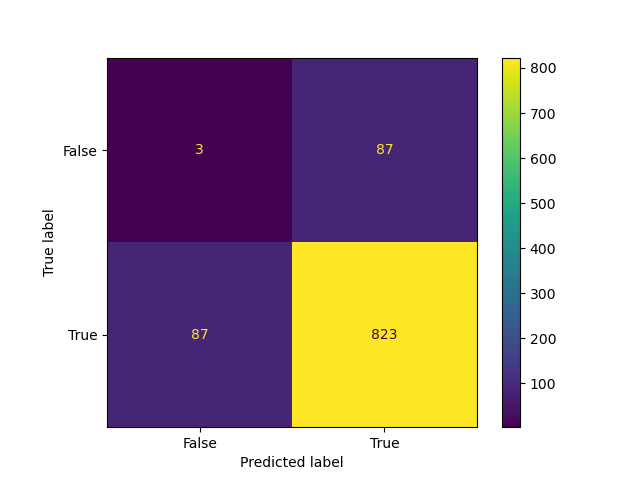
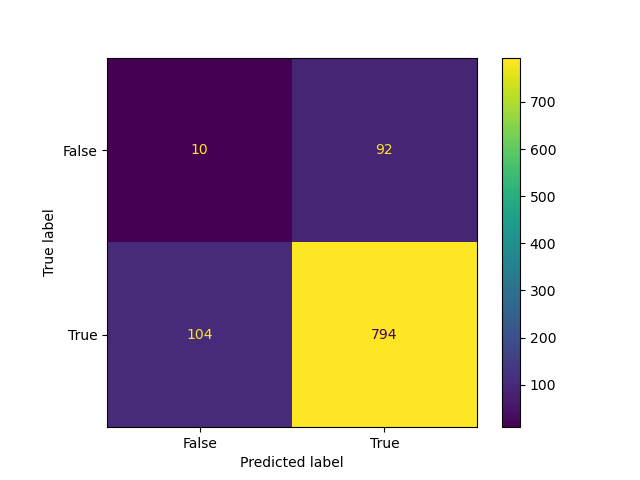
added

diff --git a/plant leaf/app.py b/plant leaf/app.py
@@ -9,6 +9,7 @@ import pickle
 import matplotlib.pyplot as plt
 import numpy
 from sklearn import metrics
+import os
 
 app = Flask(__name__)
 
@@ -18,30 +19,14 @@ MODEL_DIR = os.path.join(BASE_DIR, 'model')
 
 UPLOAD_FOLDER = os.path.join(BASE_DIR, 'bucket')
 ALLOWED_EXTENSIONS = {'png', 'jpg', 'jpeg', 'JPG'}
-actual = numpy.random.binomial(1,.9,size = 1000)
-predicted = numpy.random.binomial(1,.9,size = 1000)
-confusion_matrix = metrics.confusion_matrix(actual, predicted)
 
-cm_display = metrics.ConfusionMatrixDisplay(confusion_matrix = confusion_matrix, display_labels = [False, True])
-
-cm_display.plot()
-plt.savefig('static/confusion.png')
 
 from sklearn.metrics import roc_curve, roc_auc_score
 import matplotlib.pyplot as plt
-false_positive_rate1, true_positive_rate1, threshold1 = roc_curve(actual, predicted)
-false_positive_rate2, true_positive_rate2, threshold2 = roc_curve(actual, predicted*0.5)
 
-plt.subplots(1, figsize=(10,10))
-plt.title('Leaf Species and Disease Detection ')
-plt.plot(false_positive_rate1, true_positive_rate1)
-plt.plot([0, 1], ls="--")
-plt.plot([0, 0], [1, 0] , c=".7"), plt.plot([1, 1] , c=".7")
-plt.ylabel('True Positive Rate')
-plt.xlabel('False Positive Rate')
-plt.savefig('static/roc.png')
 #plt.show()
-
+actual = numpy.random.binomial(1,.9,size = 900)
+predicted = numpy.random.binomial(1,.9,size = 900)
 
 MODEL = tensorflow.keras.models.load_model(os.path.join(MODEL_DIR, 'efficientnetv2s.h5'))
 REC_MODEL = pickle.load(open(os.path.join(MODEL_DIR, 'RF.pkl'), 'rb'))
@@ -67,7 +52,34 @@ def plantresult(res):
     print(res)
     corrected_result = ""
     link = ""
+    false_positive_rate1, true_positive_rate1, threshold1 = roc_curve(actual, predicted*0.005)
+    false_positive_rate2, true_positive_rate2, threshold2 = roc_curve(actual, predicted*.001)
     r=random.randint(90,96)
+    
+    confusion_matrix = metrics.confusion_matrix(actual, predicted)
+    cm_display = metrics.ConfusionMatrixDisplay(confusion_matrix = confusion_matrix, display_labels = [False, True])
+
+    cm_display.plot()
+    strFile="static/confusion.png"
+    print("hi---"+strFile)
+    if os.path.isfile(strFile):
+        os.remove(strFile)   # Opt.: os.system("rm "+strFile)
+	#plt.savefig(strFile)
+    plt.savefig('static/confusion.png')
+	
+    plt.subplots(1, figsize=(10,10))
+    plt.title('Leaf Species and Disease Detection ')
+    plt.plot(false_positive_rate1, true_positive_rate1)
+    plt.plot([0, 1], ls="--")
+    plt.plot([0, 0], [1, 0] , c=".7"), plt.plot([1, 1] , c=".7")
+    plt.ylabel('True Positive Rate')
+    plt.xlabel('False Positive Rate')
+    strFile1 = 'static/roc.png'
+    if os.path.isfile(strFile1):
+        os.remove(strFile1)   # Opt.: os.system("rm "+strFile)
+	#plt.savefig(strFile)
+    
+    plt.savefig('static/roc.png')
     for i in res:
         if i!='_':
             corrected_result = corrected_result+i
